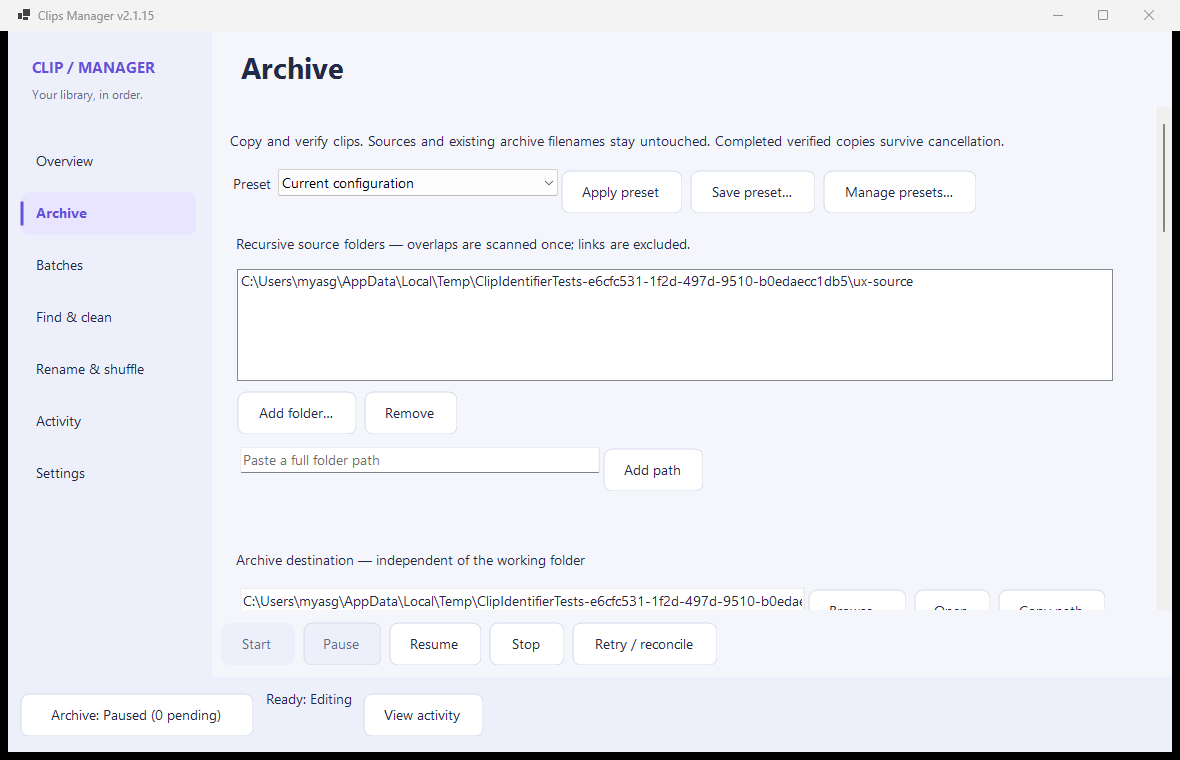
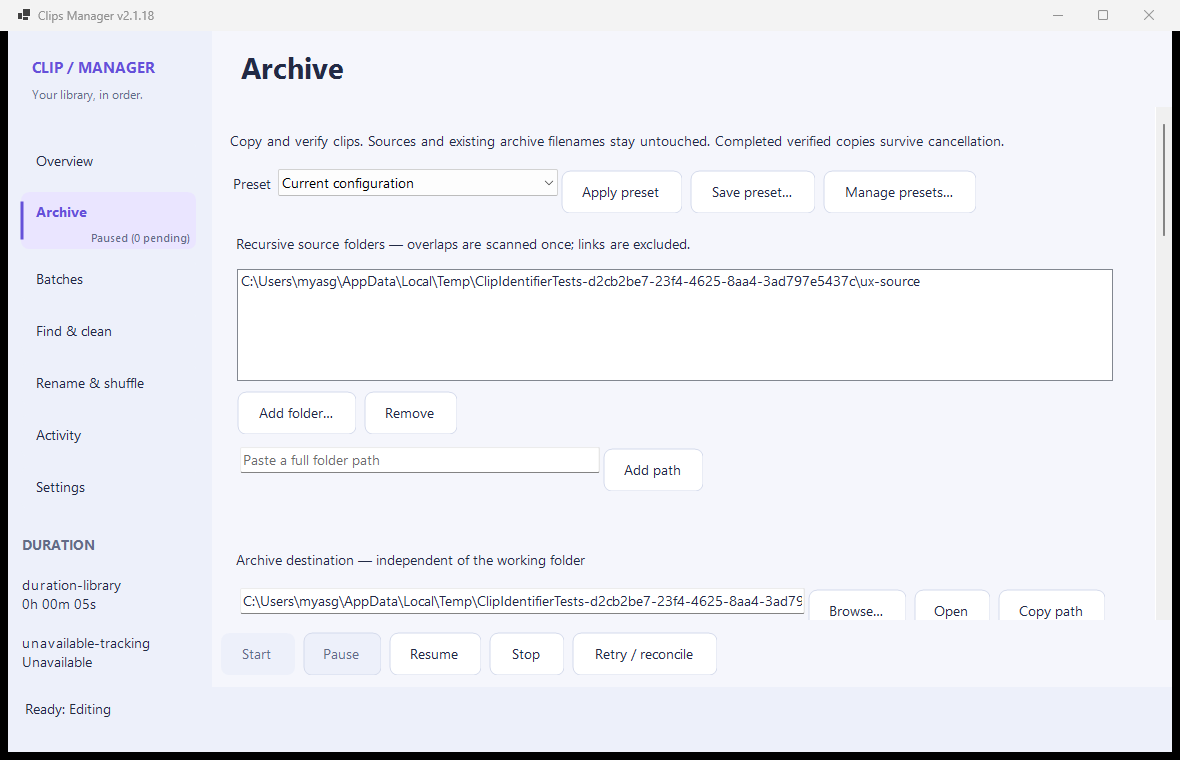
Move Archive status into sidebar and add duration quick stats for v2.1.18

diff --git a/VideoTrayApp/MainShell.cs b/VideoTrayApp/MainShell.cs
@@ -22,7 +22,10 @@ internal sealed partial class MainShell : Form
     private readonly Label jobStatus = new() { AutoSize = true, MaximumSize = new Size(750, 65), AccessibleName = "Current operation" };
     private readonly ProgressBar progress = new() { Width = 160, Height = 20 };
     private readonly Button cancel;
-    private readonly Button archiveIndicator;
+    private readonly DesktopButton archiveIndicator;
+    private readonly FlowLayoutPanel durationStats = new() { AutoSize = true, FlowDirection = FlowDirection.TopDown,
+        WrapContents = false, Margin = new Padding(0, 14, 0, 0), AccessibleName = "Duration quick stats" };
+    private readonly Dictionary<string, Label> durationLabels = new(StringComparer.OrdinalIgnoreCase);
     private readonly Dictionary<string, Control> pages = [];
     private readonly Dictionary<PresetAction, WorkflowWorkspace> workflows = [];
     private readonly Label overview = DesktopTheme.Text("");
@@ -60,8 +63,9 @@ internal sealed partial class MainShell : Form
         }
         catch (Exception ex) { persistentWarning += "\nFolder settings need attention: " + ex.Message; }
         cancel = DesktopTheme.Button("Cancel operation", () => jobs.Cancel());
-        archiveIndicator = DesktopTheme.Button("Archive: stopped", () => Navigate("Archive"));
-        var strip = DesktopTheme.Actions(archiveIndicator, jobStatus, progress, cancel, DesktopTheme.Button("View activity", () => Navigate("Activity")));
+        archiveIndicator = DesktopTheme.Button("Archive", () => Navigate("Archive"));
+        archiveIndicator.StatusText = "Stopped (0 pending)";
+        var strip = DesktopTheme.Actions(jobStatus, progress, cancel);
         strip.Dock = DockStyle.Bottom; strip.Padding = new Padding(12); strip.MinimumSize = new Size(0, 65); strip.Tag = SurfaceRole.Inset;
         navigation.Controls.Add(new Label { Text = "CLIP / MANAGER", AutoSize = true, Font = new Font("Segoe UI", 11, FontStyle.Bold),
             Margin = new Padding(10, 14, 0, 4), Tag = TextRole.Accent });
@@ -69,10 +73,14 @@ internal sealed partial class MainShell : Form
             Margin = new Padding(10, 0, 0, 28), Tag = TextRole.Secondary });
         foreach (string name in new[] { "Overview", "Archive", "Batches", "Find & clean", "Rename & shuffle", "Activity", "Settings" })
         {
-            var button = DesktopTheme.Button(name, () => Navigate(name)); button.Width = 176; button.AutoSize = false; button.Height = 44;
+            var button = name == "Archive" ? archiveIndicator : DesktopTheme.Button(name, () => Navigate(name));
+            button.Width = 176; button.AutoSize = false; button.Height = name == "Archive" ? 58 : 44;
+            if (name == "Archive") button.TextAlign = ContentAlignment.TopLeft;
             button.Kind = ButtonKind.Navigation;
             button.Tag = name; navigation.Controls.Add(button);
         }
+        navigation.Controls.Add(durationStats);
+        BuildDurationStats();
         Controls.Add(content); Controls.Add(heading); Controls.Add(navigation); Controls.Add(strip);
         BuildOverview(); BuildActivity();
         DesktopTheme.Current = preferences.Theme; DesktopTheme.Apply(this);
@@ -81,7 +89,8 @@ internal sealed partial class MainShell : Form
             bool compact = ClientSize.Width * 96 / Math.Max(DeviceDpi, 96) < 1000;
             navigation.Width = compact ? 168 : 204;
             foreach (Button button in navigation.Controls.OfType<Button>()) button.Width = navigation.Width - 28;
-            jobStatus.MaximumSize = new Size(Math.Max(220, ClientSize.Width - 620), 65);
+            ResizeDurationStats();
+            jobStatus.MaximumSize = new Size(Math.Max(220, ClientSize.Width - 310), 65);
         };
         refresh.Tick += (_, _) => RefreshPresentation();
         SystemEvents.UserPreferenceChanged += SystemPreferencesChanged;
@@ -192,7 +201,12 @@ internal sealed partial class MainShell : Form
         var state = archive.Status;
         TrackArchiveActivity(state);
         string archiveState = state.State switch { ArchiveRuntimeState.WaitingForForegroundWork => "Waiting for foreground work", ArchiveRuntimeState.WaitingForStableFile => "Waiting for stable files", _ => state.State.ToString() };
-        archiveIndicator.Text = $"Archive: {archiveState} ({state.Queued} pending)";
+        string sidebarState = state.State switch { ArchiveRuntimeState.WaitingForForegroundWork => "Waiting for work",
+            ArchiveRuntimeState.WaitingForStableFile => "Settling files", _ => archiveState };
+        archiveIndicator.StatusText = $"{sidebarState} ({state.Queued} pending)";
+        durationTooltips.SetToolTip(archiveIndicator, $"Archive: {archiveState} ({state.Queued} pending)");
+        archiveIndicator.StatusActive = state.Running && !state.Paused && state.State != ArchiveRuntimeState.Suspended;
+        RefreshDurationStats();
         var value = jobs.Progress;
         var elapsed = jobs.Started;
         jobStatus.Text = jobs.Busy ? $"{jobs.Title}: {DesktopTheme.StateLabel(jobs.State)} • {(elapsed.HasValue ? WorkflowWorkspace.Duration(DateTimeOffset.Now - elapsed.Value) : "")}\n{value.Message}" : $"{jobs.Title}: {DesktopTheme.StateLabel(jobs.State)}";
@@ -367,7 +381,7 @@ internal sealed partial class MainShell : Form
         {
             resourcesDisposed = true;
             SystemEvents.UserPreferenceChanged -= SystemPreferencesChanged;
-            lifetime.Cancel(); refresh.Dispose(); if (!jobs.Busy) jobs.Dispose(); tray.ContextMenuStrip?.Dispose(); tray.Dispose();
+            lifetime.Cancel(); refresh.Dispose(); durationTooltips.Dispose(); if (!jobs.Busy) jobs.Dispose(); tray.ContextMenuStrip?.Dispose(); tray.Dispose();
             folderRefresh?.Cancel(); folderRefresh?.Dispose(); folderRefresh = null;
             if (!archive.Running) archive.Dispose();
             lifetime.Dispose();

diff --git a/VideoTrayApp/FolderDurationTracker.cs b/VideoTrayApp/FolderDurationTracker.cs
@@ -2,6 +2,8 @@ using System.Text.RegularExpressions;
 
 namespace VideoTrayApp;
 
+internal sealed record RootDurationStats(TimeSpan? Duration, bool Complete);
+
 /// <summary>Tracks independent roots, retaining the root/immediate-child duration marker behavior.</summary>
 internal sealed class FolderDurationTracker : IDisposable
 {
@@ -14,6 +16,9 @@ internal sealed class FolderDurationTracker : IDisposable
     private bool paused;
     private bool disposed;
     private static readonly Regex MarkerPattern = new(@"^\d+M\d+S\.txt$", RegexOptions.IgnoreCase);
+    private IReadOnlyDictionary<string, RootDurationStats> totals = new Dictionary<string, RootDurationStats>();
+    // Published snapshots never change; the UI never waits for the scan lock or reads files.
+    internal IReadOnlyDictionary<string, RootDurationStats> Totals => Volatile.Read(ref totals);
 
     public FolderDurationTracker(IEnumerable<string> extensions)
     {
@@ -32,6 +37,7 @@ internal sealed class FolderDurationTracker : IDisposable
             watchers.Clear();
             pending.Clear();
             roots = normalized;
+            Volatile.Write(ref totals, new Dictionary<string, RootDurationStats>(StringComparer.OrdinalIgnoreCase));
             foreach (string root in roots)
             {
                 FileSystemWatcher? watcher = null;
@@ -97,30 +103,46 @@ internal sealed class FolderDurationTracker : IDisposable
             var folders = pending.ToArray();
             pending.Clear();
             // Parent and child roots may overlap; scan each folder path only once per refresh.
-            var visited = new HashSet<string>(StringComparer.OrdinalIgnoreCase);
+            var visited = new Dictionary<string, RootDurationStats>(StringComparer.OrdinalIgnoreCase);
+            var nextTotals = new Dictionary<string, RootDurationStats>(totals, StringComparer.OrdinalIgnoreCase);
             foreach (string root in folders)
             {
+                TimeSpan? duration = null;
+                bool complete = false;
                 try
                 {
-                    if (!Directory.Exists(root)) continue;
-                    UpdateFolder(root, visited);
-                    foreach (string child in Directory.EnumerateDirectories(root)) UpdateFolder(child, visited);
+                    if (Directory.Exists(root))
+                    {
+                        var result = UpdateFolder(root, visited);
+                        duration = result.Duration; complete = result.Complete;
+                        foreach (string child in Directory.EnumerateDirectories(root))
+                        {
+                            var childResult = UpdateFolder(child, visited);
+                            if (duration.HasValue) duration += childResult.Duration ?? TimeSpan.Zero;
+                            complete &= childResult.Complete;
+                        }
+                    }
                 }
                 catch
                 {
                     // Keep processing other roots when a folder disappears or cannot be read.
+                    complete = false;
                 }
+                nextTotals[root] = new(duration, complete);
             }
+            Volatile.Write(ref totals, nextTotals);
         }
     }
 
-    private void UpdateFolder(string path, HashSet<string> visited)
+    private RootDurationStats UpdateFolder(string path, Dictionary<string, RootDurationStats> visited)
     {
-        if (!visited.Add(path)) return;
+        if (visited.TryGetValue(path, out var cached)) return cached;
+        var result = new RootDurationStats(null, false);
         try
         {
             var folder = new DirectoryInfo(path);
             TimeSpan total = TimeSpan.Zero;
+            bool complete = true;
             foreach (var file in folder.EnumerateFiles().Where(file => videoExtensions.Contains(file.Extension)))
             {
                 try
@@ -128,8 +150,9 @@ internal sealed class FolderDurationTracker : IDisposable
                     using var video = TagLib.File.Create(file.FullName);
                     total += video.Properties.Duration;
                 }
-                catch { } // A clip may still be copying; Changed will schedule another scan.
+                catch { complete = false; } // A clip may still be copying; Changed will schedule another scan.
             }
+            result = new(total, complete);
             string? markerName = total > TimeSpan.Zero ? $"{(long)total.TotalMinutes}M{total.Seconds}S.txt" : null;
             foreach (var file in folder.GetFiles("*.txt"))
             {
@@ -143,6 +166,8 @@ internal sealed class FolderDurationTracker : IDisposable
             }
         }
         catch { } // Failure in one child must not prevent updating its siblings.
+        visited[path] = result;
+        return result;
     }
 
     public void Pause()

diff --git a/VideoTrayApp/DesktopControls.cs b/VideoTrayApp/DesktopControls.cs
@@ -124,6 +124,22 @@ internal enum ButtonKind { Command, Navigation, Tool, Tab }
 internal sealed class DesktopButton : Button
 {
     private bool hovered, pressed, selected;
+    private string statusText = "";
+    private bool statusActive;
+    [System.ComponentModel.DesignerSerializationVisibility(System.ComponentModel.DesignerSerializationVisibility.Hidden)]
+    internal string StatusText
+    {
+        get => statusText;
+        set { if (statusText == value) return; statusText = value; UpdateDescription(); Invalidate(); }
+    }
+    [System.ComponentModel.DesignerSerializationVisibility(System.ComponentModel.DesignerSerializationVisibility.Hidden)]
+    internal bool StatusActive
+    {
+        get => statusActive;
+        set { if (statusActive == value) return; statusActive = value; Invalidate(); }
+    }
+    private void UpdateDescription() => AccessibleDescription = string.Join("; ",
+        new[] { selected ? "Selected" : "", statusText }.Where(value => value.Length > 0));
     [System.ComponentModel.DesignerSerializationVisibility(System.ComponentModel.DesignerSerializationVisibility.Hidden)]
     internal ButtonKind Kind { get; set; }
     [System.ComponentModel.DesignerSerializationVisibility(System.ComponentModel.DesignerSerializationVisibility.Hidden)]
@@ -134,7 +150,7 @@ internal sealed class DesktopButton : Button
         {
             if (selected == value) return;
             selected = value; Font = value ? DesktopTheme.EmphasisFont : DesktopTheme.BodyFont;
-            AccessibleDescription = value ? "Selected" : null;
+            UpdateDescription();
             Invalidate();
         }
     }
@@ -148,7 +164,8 @@ internal sealed class DesktopButton : Button
     protected override void OnLostFocus(EventArgs e) { pressed = false; base.OnLostFocus(e); Invalidate(); }
     protected override void OnPaint(PaintEventArgs e)
     {
-        if (SystemInformation.HighContrast) { base.OnPaint(e); return; }
+        bool contrast = SystemInformation.HighContrast;
+        if (contrast) { base.OnPaint(e); if (statusText.Length > 0) DrawStatus(e.Graphics, SystemColors.ControlText); return; }
         var graphics = e.Graphics;
         graphics.Clear(Parent?.BackColor ?? DesktopTheme.Canvas);
         graphics.SmoothingMode = SmoothingMode.AntiAlias;
@@ -175,12 +192,24 @@ internal sealed class DesktopButton : Button
             if (selected) { using var brush = new SolidBrush(DesktopTheme.Accent); graphics.FillRectangle(brush, 12 * scale, Height - 3 * scale, Width - 24 * scale, 3 * scale); }
         }
         var textBounds = Rectangle.FromLTRB(Padding.Left, Padding.Top, Width - Padding.Right, Height - Padding.Bottom);
+        if (statusText.Length > 0) textBounds.Height = Math.Max(1, textBounds.Height - (int)(17 * scale));
         var flags = TextFormatFlags.VerticalCenter | TextFormatFlags.EndEllipsis | TextFormatFlags.SingleLine
             | (Kind == ButtonKind.Navigation ? TextFormatFlags.Left : TextFormatFlags.HorizontalCenter);
         if (!UseMnemonic) flags |= TextFormatFlags.NoPrefix;
         else if (!ShowKeyboardCues) flags |= TextFormatFlags.HidePrefix;
         TextRenderer.DrawText(graphics, Text, Font, textBounds, ink, flags);
+        if (statusText.Length > 0) DrawStatus(graphics, statusActive ? DesktopTheme.Accent : DesktopTheme.Muted);
         if (Focused && ShowFocusCues) ControlPaint.DrawFocusRectangle(graphics, Rectangle.Inflate(ClientRectangle, -5, -5), ink, fill);
+    }
+    private void DrawStatus(Graphics graphics, Color ink)
+    {
+        float scale = DeviceDpi / 96f;
+        using var statusFont = new Font(Font.FontFamily, 8f);
+        int inset = (int)(6 * scale);
+        var bounds = new Rectangle(inset, Height - Padding.Bottom - (int)(17 * scale),
+            Math.Max(1, Width - inset * 2), (int)(17 * scale));
+        TextRenderer.DrawText(graphics, (statusActive ? "● " : "") + statusText, statusFont, bounds, ink,
+            TextFormatFlags.Right | TextFormatFlags.Bottom | TextFormatFlags.SingleLine | TextFormatFlags.EndEllipsis | TextFormatFlags.NoPrefix | TextFormatFlags.NoPadding);
     }
     private static GraphicsPath Rounded(RectangleF bounds, float radius)
     {

diff --git a/VideoTrayApp.Tests/UxChecks.cs b/VideoTrayApp.Tests/UxChecks.cs
@@ -120,6 +120,9 @@ internal static class UxChecks
                 string images = Path.GetFullPath("docs/ux/screenshots"); Directory.CreateDirectory(images);
                 WatchFolderSettings.Save(data, []);
                 using (var old = new Form1(data, false)) { old.Show(); Application.DoEvents(); old.Hide(); }
+                string trackedFolder = Directory.CreateDirectory(Path.Combine(data, "duration-library")).FullName;
+                foreach (string clip in Directory.EnumerateFiles(source, "*.avi")) File.Copy(clip, Path.Combine(trackedFolder, Path.GetFileName(clip)));
+                WatchFolderSettings.Save(data, [trackedFolder, Path.Combine(data, "unavailable-tracking")]);
                 string archiveDestination = Directory.CreateDirectory(Path.Combine(data, "continuous-archive")).FullName;
                 new ArchiveSettings { Sources = [source], Destination = archiveDestination, Speed = ArchiveSpeed.Fast,
                     WatchContinuously = true, SettlingSeconds = 0 }.Save(data);
@@ -136,7 +139,19 @@ internal static class UxChecks
                     Application.DoEvents(); Thread.Sleep(5);
                 }
                 Check(shell.Archive.Running && ArchiveSettings.Load(data).WatchContinuously, "New shell resumes saved watching without changing Archive enablement or source roots");
+                typeof(MainShell).GetMethod("RefreshPresentation", BindingFlags.Instance | BindingFlags.NonPublic)!.Invoke(shell, []);
+                var archiveButton = Descendants(shell).OfType<DesktopButton>().Single(b => Equals(b.Tag, "Archive"));
+                Check(archiveButton.Text == "Archive" && archiveButton.StatusActive && archiveButton.StatusText.Contains("pending")
+                    && archiveButton.AccessibleDescription!.Contains(archiveButton.StatusText)
+                    && !Descendants(shell).OfType<Button>().Any(b => b.Text == "View activity"),
+                    "Archive navigation exposes live active status accessibly and the redundant activity button is removed");
+                var quickStats = Descendants(shell).Single(c => c.AccessibleName == "Duration quick stats");
+                var settingsButton = Descendants(shell).OfType<DesktopButton>().Single(b => Equals(b.Tag, "Settings"));
+                Check(quickStats.Parent == settingsButton.Parent && quickStats.Top >= settingsButton.Bottom
+                    && quickStats.Controls.OfType<Label>().Count(l => l.AccessibleName?.StartsWith("Tracked duration:") == true) == 2,
+                    "Duration quick stats show saved roots directly below Settings");
                 shell.Navigate("Archive"); shell.Archive.Pause(); Capture(shell, Path.Combine(images, "archive-paused.png"));
+                Check(!archiveButton.StatusActive && archiveButton.StatusText.StartsWith("Paused"), "Paused Archive loses the active dot and keeps its visible status");
                 Check(shell.Archive.Status.Paused && ArchiveSettings.Load(data).WatchContinuously, "Pausing the new shell Archive retains continuous watch enablement");
                 shell.Archive.Resume();
                 foreach (string page in new[] { "Overview", "Archive", "Batches", "Find & clean", "Rename & shuffle", "Activity", "Settings" })

diff --git a/VideoTrayApp.Tests/FolderTrackingChecks.cs b/VideoTrayApp.Tests/FolderTrackingChecks.cs
@@ -42,6 +42,9 @@ internal static class FolderTrackingChecks
             tracker.SetFolders([unavailable, first, second, first]);
             WaitFor(() => HasMarker(first, "0M2S.txt") && HasMarker(second, "0M3S.txt")
                 && HasMarker(child, "0M4S.txt"), "Startup refresh updates independent roots and immediate children");
+            WaitFor(() => tracker.Totals.TryGetValue(first, out var value) && value.Duration == TimeSpan.FromSeconds(6)
+                && value.Complete && tracker.Totals.TryGetValue(unavailable, out var missing) && missing.Duration is null,
+                "Quick stats include immediate children, exclude deeper clips, and distinguish unavailable roots");
             Check(!Directory.GetFiles(deep, "*.txt").Any(), "Existing immediate-child tracking scope is preserved");
             Check(File.ReadAllText(Path.Combine(first, "notes.txt")) == "Keep my notes"
                 && !File.Exists(Path.Combine(first, "99M9S.txt")), "Duration refresh preserves notes and replaces only old markers");
@@ -70,6 +73,9 @@ internal static class FolderTrackingChecks
 
             tracker.SetFolders([first, second, child]);
             WaitFor(() => HasMarker(deep, "0M5S.txt"), "An overlapping child root also tracks its own immediate children");
+            WaitFor(() => tracker.Totals.TryGetValue(first, out var parentTotal) && parentTotal.Duration == TimeSpan.FromSeconds(17)
+                && tracker.Totals.TryGetValue(child, out var childTotal) && childTotal.Duration == TimeSpan.FromSeconds(9),
+                "Overlapping roots each get their own complete total without counting any folder twice");
 
             string outside = Directory.CreateDirectory(Path.Combine(root, "incoming")).FullName;
             writeAvi(Path.Combine(outside, "incoming.avi"), 11, 9);
@@ -83,6 +89,7 @@ internal static class FolderTrackingChecks
             WaitFor(() => HasMarker(first, "0M17S.txt"), "Remaining watched folders continue updating after removal");
             Check(HasMarker(second, "0M8S.txt"), "Removed roots stop updating their markers");
             tracker.SetFolders([]);
+            Check(tracker.Totals.Count == 0, "Removing all roots clears cached sidebar totals");
             writeAvi(firstClip, 18, 12);
             Thread.Sleep(900);
             Check(HasMarker(first, "0M17S.txt"), "Removing all roots stops duration tracking");

diff --git a/VideoTrayApp/MainShell.DurationStats.cs b/VideoTrayApp/MainShell.DurationStats.cs
@@ -1,0 +1,54 @@
+namespace VideoTrayApp;
+
+internal sealed partial class MainShell
+{
+    private readonly ToolTip durationTooltips = new();
+
+    private void BuildDurationStats()
+    {
+        durationStats.SuspendLayout();
+        foreach (Control control in durationStats.Controls.Cast<Control>().ToArray()) control.Dispose();
+        durationLabels.Clear();
+        var title = DesktopTheme.Text("DURATION");
+        title.Font = DesktopTheme.EmphasisFont;
+        title.Tag = TextRole.Secondary;
+        durationStats.Controls.Add(title);
+        foreach (string root in trackingRoots.Distinct(StringComparer.OrdinalIgnoreCase))
+        {
+            var label = DesktopTheme.Text("");
+            label.AccessibleName = "Tracked duration: " + root;
+            durationTooltips.SetToolTip(label, root + "\nIncludes videos in this root and its immediate subfolders.");
+            durationLabels[root] = label;
+            durationStats.Controls.Add(label);
+        }
+        if (durationLabels.Count == 0)
+            durationStats.Controls.Add(DesktopTheme.Text("No tracked folders.\nAdd folders in Settings."));
+        ResizeDurationStats();
+        RefreshDurationStats();
+        DesktopTheme.Apply(durationStats);
+        durationStats.ResumeLayout();
+    }
+
+    private void ResizeDurationStats()
+    {
+        int width = Math.Max(1, navigation.Width - 28);
+        durationStats.MaximumSize = new Size(width, 0);
+        foreach (Label label in durationStats.Controls.OfType<Label>()) label.MaximumSize = new Size(width, 0);
+    }
+
+    private void RefreshDurationStats()
+    {
+        var totals = tracker.Totals;
+        foreach (var (root, label) in durationLabels)
+        {
+            string name = Path.GetFileName(Path.TrimEndingDirectorySeparator(root));
+            if (name.Length == 0) name = root;
+            string duration = totals.TryGetValue(root, out var total)
+                ? total.Duration is { } value ? WorkflowWorkspace.Duration(value) + (total.Complete ? "" : " (partial)") : "Unavailable"
+                : "Refreshing…";
+            string text = name + "\n" + duration;
+            if (label.Text != text) label.Text = text;
+            label.AccessibleDescription = root + "; " + duration + "; root and immediate subfolders";
+        }
+    }
+}

diff --git a/VideoTrayApp/MainShell.Settings.cs b/VideoTrayApp/MainShell.Settings.cs
@@ -111,7 +111,9 @@ internal sealed partial class MainShell
             if (jobs.Busy) { totals.Text = "Wait for foreground work to finish before changing tracking roots."; return; }
             try
             {
-                var next = roots.Paths; WatchFolderSettings.Save(dataFolder, next); trackingRoots = next;
+                var next = WatchFolderSettings.Normalize(roots.Paths); WatchFolderSettings.Save(dataFolder, next); trackingRoots = next;
+                roots.Paths = next;
+                BuildDurationStats();
                 await Task.Run(() => tracker.SetFolders(next)); await UiThread.Switch(this); if (!IsDisposed) await ReadTotals();
             }
             catch (Exception ex) { await UiThread.Switch(this); if (!IsDisposed) totals.Text = "Tracking roots could not be saved: " + ex.Message; }

diff --git a/README.md b/README.md
@@ -4,7 +4,7 @@ A Windows system tray app that monitors video folders and helps organize/rename 
 
 ## Current Version
 
-2.1.17
+2.1.18
 
 The native desktop redesign replaces the main window with **Overview**, **Archive**, **Batches**, **Find & clean**, **Rename & shuffle**, **Activity**, and **Settings**. All nine actions remain available. Configure a tool, **Analyze / refresh preview**, inspect exact paths and proposed actions, then **Review and run**. Opening a destination or applying a preset never starts file changes. Results and recovery details stay in Activity. Light, Dark, System and Windows High Contrast share native controls.
 
@@ -17,6 +17,8 @@ First launch opens visibly with optional setup; startup registration is opt in. 
 Open **Settings → Duration tracking** or the tray's **Duration tracking** entry. Add or paste each root, remove roots you no longer want, then **Save tracking roots**. Removing all roots disables tracking. The working folder for naming/shuffle actions is configured separately in Overview.
 
 Each watched folder and its immediate subfolders gets its own total-duration marker, such as `90M30S.txt`, based on the videos directly inside that folder. Totals refresh automatically when clips are added, modified, renamed, moved or deleted. Empty folders have their duration markers cleared; other text files are preserved. Overlapping watched folders are supported. Tracking pauses for preset operations and Shuffle Batches, then refreshes every watched folder afterward.
+
+Quick stats below **Settings** in the sidebar show each tracked root's combined duration, including its immediate subfolders. Unavailable roots and partial totals are labeled. The **Archive** button shows its live state and pending count in a small status line, with an active dot while Archive is running.
 
 The list is saved in `%APPDATA%/ClipsManager/watch_folders.json` and restored on restart. Your existing single-folder setting is migrated automatically. Unavailable folders stay in the saved list and are retried when you save the list, restart the app, or finish a preset operation.
 
